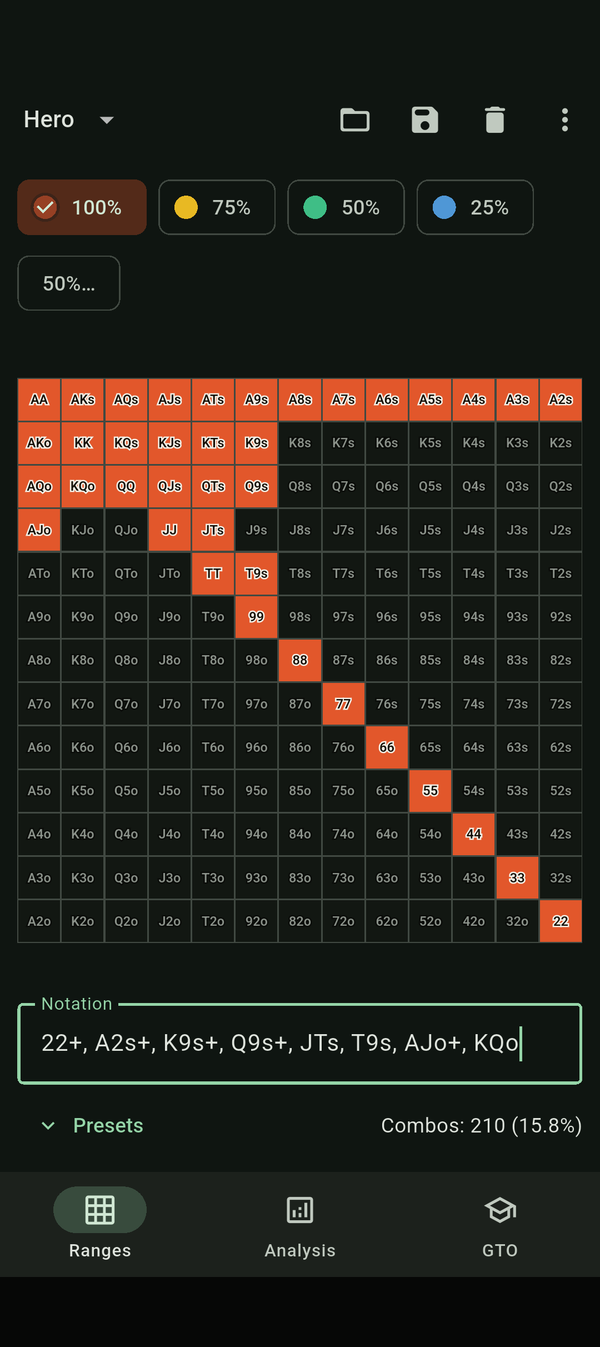
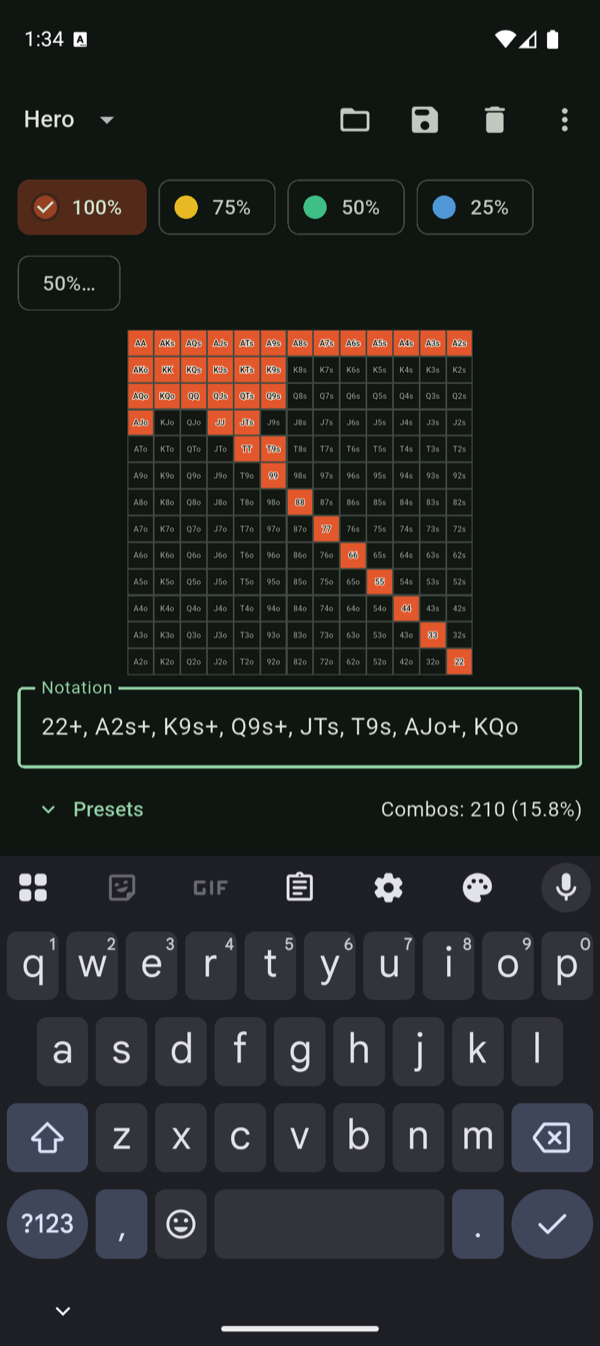
Site: add developer/data-controller name to privacy policy (Huawei 7.1); refresh screenshots, badges, Leak Map + 3-bet copy

diff --git a/i18n.js b/i18n.js
@@ -13,7 +13,7 @@ const T = {
 
     "index.title": "FlopVision — Poker Range & GTO Study Tool",
     "hero.tag": "See the flop the way solvers do. An offline poker range, equity and GTO study tool — private, fast, and made for your pocket.",
-    "badges.soon": "Coming soon to Google Play and AppGallery · iOS later",
+    "badges.soon": "In review on Google Play, the App Store & AppGallery — live soon",
 
     "feat.title": "What FlopVision does",
     "feat.sub": "Everything runs on your device. No account, no internet needed.",
@@ -24,9 +24,11 @@ const T = {
     "feat.equity.h": "Instant equity",
     "feat.equity.p": "Hand vs range and range vs range, computed locally in milliseconds.",
     "feat.gto.h": "GTO viewer",
-    "feat.gto.p": "Precomputed solver solutions with per-combo action frequencies.",
+    "feat.gto.p": "Rake-adjusted solver solutions for single-raised and 3-bet pots, with per-combo action frequencies.",
     "feat.trainer.h": "Trainer",
     "feat.trainer.p": "Quiz yourself on solver-correct flop decisions, hand after hand.",
+    "feat.leak.h": "Leak Map",
+    "feat.leak.p": "Turns your trainer mistakes into weak themes — by spot, street and texture — that you can re-deal and drill.",
     "feat.offline.h": "Private & offline",
     "feat.offline.p": "No tracking, no ads, no servers. Your study stays on your phone.",
 
@@ -39,9 +41,11 @@ const T = {
     "howto.s3.h": "3 · Read equity & breakdown",
     "howto.s3.p": "Instantly see how the range hits the board — made hands, draws, and equity versus another range.",
     "howto.s4.h": "4 · Study GTO",
-    "howto.s4.p": "Open a solved spot and read per-hand action frequencies straight from the solver.",
+    "howto.s4.p": "Pick a spot — single-raised or 3-bet, rake-adjusted — and read per-hand action frequencies straight from the solver.",
     "howto.s5.h": "5 · Train",
     "howto.s5.p": "Quiz yourself hand after hand and get instant, solver-correct feedback.",
+    "howto.s6.h": "6 · Review your leaks",
+    "howto.s6.p": "Open the Leak Map to see which spots, streets and textures you miss most — then re-deal and fix them.",
 
     "is.title": "A study tool — not gambling",
     "is.yes.h": "What it is",
@@ -58,8 +62,10 @@ const T = {
     "shots.sub": "Real screens from the app — Android now, iOS soon.",
     "shots.cap1": "Range editor",
     "shots.cap2": "GTO strategy",
-    "shots.cap3": "Trainer",
-    "shots.cap4": "Equity & breakdown",
+    "shots.cap3": "3-bet strategy",
+    "shots.cap4": "Leak Map",
+    "shots.cap5": "Trainer",
+    "shots.cap6": "Spots",
     "shots.ph": "Screenshot\ncoming soon",
 
     "cta.h": "Study smarter, anywhere",
@@ -73,6 +79,8 @@ const T = {
     "priv.title": "FlopVision — Privacy Policy",
     "priv.h": "Privacy Policy",
     "priv.date": "Effective date: July 3, 2026",
+    "priv.who.h": "Who we are",
+    "priv.who.p": "This app is developed and published by FlopVision. FlopVision is the developer and the data controller responsible for this app and this Privacy Policy. You can reach us at [email redacted].",
     "priv.sum.h": "Summary",
     "priv.sum.p": "FlopVision is an offline poker study tool. The app needs no account, collects no personal data, uses no advertising or analytics SDKs, and transmits none of your ranges, boards or calculations. All computation happens locally on your device.",
     "priv.collect.h": "Data we collect",
@@ -132,7 +140,7 @@ const T = {
 
     "index.title": "FlopVision — покерный тренажёр диапазонов и GTO",
     "hero.tag": "Смотри на флоп глазами солвера. Офлайн-инструмент для диапазонов, эквити и GTO — приватно, быстро и всегда в кармане.",
-    "badges.soon": "Скоро в Google Play и AppGallery · iOS — позже",
+    "badges.soon": "На проверке в Google Play, App Store и AppGallery — скоро в сторах",
 
     "feat.title": "Что умеет FlopVision",
     "feat.sub": "Всё считается на устройстве. Без аккаунта и без интернета.",
@@ -143,9 +151,11 @@ const T = {
     "feat.equity.h": "Мгновенное эквити",
     "feat.equity.p": "Рука против диапазона и диапазон против диапазона — локально, за миллисекунды.",
     "feat.gto.h": "GTO-просмотр",
-    "feat.gto.p": "Прекомпьютнутые решения солвера с частотами действий по каждому комбо.",
+    "feat.gto.p": "Решения солвера с учётом рейка для single-raised и 3-бет потов, с частотами действий по каждому комбо.",
     "feat.trainer.h": "Тренажёр",
     "feat.trainer.p": "Проверяй себя на GTO-верных решениях на флопе, рука за рукой.",
+    "feat.leak.h": "Карта ликов",
+    "feat.leak.p": "Превращает ошибки тренажёра в слабые темы — по споту, улице и текстуре — которые можно пересдать и отработать.",
     "feat.offline.h": "Приватность и офлайн",
     "feat.offline.p": "Без слежки, рекламы и серверов. Твоя учёба остаётся в телефоне.",
 
@@ -158,9 +168,11 @@ const T = {
     "howto.s3.h": "3 · Смотри эквити и разбор",
     "howto.s3.p": "Мгновенно видно, как диапазон попадает в борд — готовые руки, дро и эквити против другого диапазона.",
     "howto.s4.h": "4 · Изучай GTO",
-    "howto.s4.p": "Открой посчитанный спот и читай частоты действий по каждой руке прямо из солвера.",
+    "howto.s4.p": "Выбери спот — single-raised или 3-бет, с учётом рейка — и читай частоты действий по каждой руке прямо из солвера.",
     "howto.s5.h": "5 · Тренируйся",
     "howto.s5.p": "Проверяй себя рука за рукой и получай мгновенный GTO-верный фидбек.",
+    "howto.s6.h": "6 · Разбирай ошибки",
+    "howto.s6.p": "Открой Карту ликов, чтобы увидеть, какие споты, улицы и текстуры даются хуже всего — и пересдай их, чтобы закрепить.",
 
     "is.title": "Инструмент для учёбы, а не азартная игра",
     "is.yes.h": "Что это",
@@ -177,8 +189,10 @@ const T = {
     "shots.sub": "Реальные экраны приложения — Android сейчас, iOS скоро.",
     "shots.cap1": "Редактор диапазонов",
     "shots.cap2": "GTO-стратегия",
-    "shots.cap3": "Тренажёр",
-    "shots.cap4": "Эквити и разбор",
+    "shots.cap3": "3-бет стратегия",
+    "shots.cap4": "Карта ликов",
+    "shots.cap5": "Тренажёр",
+    "shots.cap6": "Споты",
     "shots.ph": "Скриншот\nскоро",
 
     "cta.h": "Учись эффективнее, где угодно",
@@ -192,6 +206,8 @@ const T = {
     "priv.title": "FlopVision — Политика конфиденциальности",
     "priv.h": "Политика конфиденциальности",
     "priv.date": "Дата вступления в силу: 3 июля 2026",
+    "priv.who.h": "Кто мы",
+    "priv.who.p": "Это приложение разрабатывается и издаётся FlopVision. FlopVision является разработчиком и контроллером данных, ответственным за это приложение и за настоящую Политику конфиденциальности. Связаться с нами: [email redacted].",
     "priv.sum.h": "Кратко",
     "priv.sum.p": "FlopVision — офлайн-инструмент для изучения покера. Приложению не нужен аккаунт, оно не собирает персональные данные, не использует рекламные и аналитические SDK и никуда не передаёт ваши диапазоны, борды и расчёты. Всё считается локально на устройстве.",
     "priv.collect.h": "Какие данные мы собираем",
@@ -251,7 +267,7 @@ const T = {
 
     "index.title": "FlopVision — 扑克范围与 GTO 学习工具",
     "hero.tag": "像求解器一样看翻牌。离线的扑克范围、胜率与 GTO 学习工具——私密、快速，装进口袋。",
-    "badges.soon": "即将登陆 Google Play 与 AppGallery · iOS 稍后推出",
+    "badges.soon": "正在 Google Play、App Store 与 AppGallery 审核中 — 即将上线",
 
     "feat.title": "FlopVision 能做什么",
     "feat.sub": "全部在你的设备上运行。无需账号，无需联网。",
@@ -262,9 +278,11 @@ const T = {
     "feat.equity.h": "即时胜率",
     "feat.equity.p": "手牌对范围、范围对范围，本地毫秒级计算。",
     "feat.gto.h": "GTO 查看器",
-    "feat.gto.p": "预先计算的求解器方案，含每个组合的行动频率。",
+    "feat.gto.p": "考虑抽水的求解器方案，涵盖单加注与 3-bet 底池，含每个组合的行动频率。",
     "feat.trainer.h": "训练器",
     "feat.trainer.p": "一手接一手地测试你在翻牌的 GTO 正确决策。",
+    "feat.leak.h": "漏洞图",
+    "feat.leak.p": "把训练器中的失误归类为薄弱主题——按场景、街道与牌面结构——可重新发牌并反复练习。",
     "feat.offline.h": "私密与离线",
     "feat.offline.p": "无追踪、无广告、无服务器。你的学习留在手机里。",
 
@@ -277,9 +295,11 @@ const T = {
     "howto.s3.h": "3 · 查看胜率与分解",
     "howto.s3.p": "即时了解范围如何击中牌面——成手、听牌，以及对另一范围的胜率。",
     "howto.s4.h": "4 · 学习 GTO",
-    "howto.s4.p": "打开已求解的场景，直接读取求解器给出的每手行动频率。",
+    "howto.s4.p": "选择一个场景——单加注或 3-bet、考虑抽水——直接读取求解器给出的每手行动频率。",
     "howto.s5.h": "5 · 训练",
     "howto.s5.p": "一手接一手地测试自己，获得即时的、符合求解器的反馈。",
+    "howto.s6.h": "6 · 复盘漏洞",
+    "howto.s6.p": "打开漏洞图，看看哪些场景、街道和牌面结构最常出错——然后重新发牌并加以修正。",
 
     "is.title": "学习工具，而非赌博",
     "is.yes.h": "它是什么",
@@ -296,8 +316,10 @@ const T = {
     "shots.sub": "应用真实截图——Android 现已推出，iOS 即将到来。",
     "shots.cap1": "范围编辑器",
     "shots.cap2": "GTO 策略",
-    "shots.cap3": "训练器",
-    "shots.cap4": "胜率与分解",
+    "shots.cap3": "3-bet 策略",
+    "shots.cap4": "漏洞图",
+    "shots.cap5": "训练器",
+    "shots.cap6": "场景",
     "shots.ph": "截图\n即将上线",
 
     "cta.h": "随时随地更聪明地学习",
@@ -311,6 +333,8 @@ const T = {
     "priv.title": "FlopVision — 隐私政策",
     "priv.h": "隐私政策",
     "priv.date": "生效日期：2026年7月3日",
+    "priv.who.h": "我们是谁",
+    "priv.who.p": "本应用由 FlopVision 开发和发布。FlopVision 是负责本应用及本隐私政策的开发者和数据控制者。你可以通过 [email redacted] 与我们联系。",
     "priv.sum.h": "摘要",
     "priv.sum.p": "FlopVision 是一款离线扑克学习工具。应用无需账号，不收集个人数据，不使用广告或分析 SDK，也不会传输你的范围、牌面或计算。所有计算都在你的设备本地完成。",
     "priv.collect.h": "我们收集的数据",

diff --git a/index.html b/index.html
@@ -29,12 +29,14 @@
       <h1>FlopVision</h1>
       <p class="tag" data-i18n="hero.tag">See the flop the way solvers do. An offline poker range, equity and GTO study tool — private, fast, and made for your pocket.</p>
       <!-- Official store badges (downloaded from Google/Apple/Huawei).
-           Shown as "coming soon" until public launch; link each badge to
-           its listing and drop the .disabled class once live. -->
+           URLs are the canonical store listings (live once each store
+           approves the app). Each badge keeps the .disabled class — which is
+           opacity:.5 + pointer-events:none — until its store goes live; drop
+           .disabled on a badge the moment that store publishes. -->
       <div class="badges">
-        <span class="badge disabled"><img src="assets/google-play-badge.png?v=2" alt="Get it on Google Play" style="height:44px"></span>
-        <span class="badge disabled"><img src="assets/app-store-badge.svg?v=2" alt="Download on the App Store" style="height:44px"></span>
-        <span class="badge disabled"><img src="assets/appgallery-badge.svg?v=1" alt="Explore it on AppGallery" style="height:44px"></span>
+        <a class="badge disabled" href="https://play.google.com/store/apps/details?id=com.flopvision.app" target="_blank" rel="noopener"><img src="assets/google-play-badge.png?v=2" alt="Get it on Google Play" style="height:44px"></a>
+        <a class="badge disabled" href="https://apps.apple.com/app/id6791618674" target="_blank" rel="noopener"><img src="assets/app-store-badge.svg?v=2" alt="Download on the App Store" style="height:44px"></a>
+        <a class="badge disabled" href="https://appgallery.huawei.com/app/C118268619" target="_blank" rel="noopener"><img src="assets/appgallery-badge.svg?v=1" alt="Explore it on AppGallery" style="height:44px"></a>
       </div>
       <p class="badge-note" data-i18n="badges.soon">Android available soon · iOS coming later</p>
     </section>
@@ -50,6 +52,7 @@
         <div class="feature"><span class="fi">%</span><h3 data-i18n="feat.equity.h">Instant equity</h3><p data-i18n="feat.equity.p">Hand vs range and range vs range, computed locally in milliseconds.</p></div>
         <div class="feature"><span class="fi">♠</span><h3 data-i18n="feat.gto.h">GTO viewer</h3><p data-i18n="feat.gto.p">Precomputed solver solutions with per-combo action frequencies.</p></div>
         <div class="feature"><span class="fi">✓</span><h3 data-i18n="feat.trainer.h">Trainer</h3><p data-i18n="feat.trainer.p">Quiz yourself on solver-correct flop decisions, hand after hand.</p></div>
+        <div class="feature"><span class="fi">◎</span><h3 data-i18n="feat.leak.h">Leak Map</h3><p data-i18n="feat.leak.p">Turns your trainer mistakes into weak themes you can spot and re-drill.</p></div>
         <div class="feature"><span class="fi">⛆</span><h3 data-i18n="feat.offline.h">Private &amp; offline</h3><p data-i18n="feat.offline.p">No tracking, no ads, no servers. Your study stays on your phone.</p></div>
       </div>
     </section>
@@ -63,6 +66,7 @@
         <div class="step"><h3 data-i18n="howto.s3.h">3 · Read equity &amp; breakdown</h3><p data-i18n="howto.s3.p">Instantly see how the range hits the board — made hands, draws, and equity versus another range.</p></div>
         <div class="step"><h3 data-i18n="howto.s4.h">4 · Study GTO</h3><p data-i18n="howto.s4.p">Open a solved spot and read per-hand action frequencies straight from the solver.</p></div>
         <div class="step"><h3 data-i18n="howto.s5.h">5 · Train</h3><p data-i18n="howto.s5.p">Quiz yourself hand after hand and get instant, solver-correct feedback.</p></div>
+        <div class="step"><h3 data-i18n="howto.s6.h">6 · Review your leaks</h3><p data-i18n="howto.s6.p">Open the Leak Map to see which spots, streets and textures you miss most — then re-deal and fix them.</p></div>
       </div>
     </section>
 
@@ -93,10 +97,12 @@
       <h2 class="section-title" data-i18n="shots.title">Inside the app</h2>
       <p class="section-sub" data-i18n="shots.sub">Real screens from the app — Android now, iOS soon.</p>
       <div class="shots">
-        <div class="phone"><div class="screen"><img class="shot shot-dark" src="assets/screens/01_range_dark.png?v=3" alt="Range editor" loading="lazy"><img class="shot shot-light" src="assets/screens/01_range_light.png?v=3" alt="Range editor" loading="lazy"></div><div class="cap" data-i18n="shots.cap1">Range editor</div></div>
-        <div class="phone"><div class="screen"><img class="shot shot-dark" src="assets/screens/03_gto_dark.png?v=3" alt="GTO strategy" loading="lazy"><img class="shot shot-light" src="assets/screens/03_gto_light.png?v=3" alt="GTO strategy" loading="lazy"></div><div class="cap" data-i18n="shots.cap2">GTO strategy</div></div>
-        <div class="phone"><div class="screen"><img class="shot shot-dark" src="assets/screens/04_trainer_dark.png?v=3" alt="Trainer" loading="lazy"><img class="shot shot-light" src="assets/screens/04_trainer_light.png?v=3" alt="Trainer" loading="lazy"></div><div class="cap" data-i18n="shots.cap3">Trainer</div></div>
-        <div class="phone"><div class="screen"><img class="shot shot-dark" src="assets/screens/02_analysis_dark.png?v=3" alt="Equity and breakdown" loading="lazy"><img class="shot shot-light" src="assets/screens/02_analysis_light.png?v=3" alt="Equity and breakdown" loading="lazy"></div><div class="cap" data-i18n="shots.cap4">Equity &amp; breakdown</div></div>
+        <div class="phone"><div class="screen"><img class="shot shot-dark" src="assets/screens/01_range_dark.png?v=4" alt="Range editor" loading="lazy"><img class="shot shot-light" src="assets/screens/01_range_light.png?v=4" alt="Range editor" loading="lazy"></div><div class="cap" data-i18n="shots.cap1">Range editor</div></div>
+        <div class="phone"><div class="screen"><img class="shot shot-dark" src="assets/screens/02_gto_dark.png?v=4" alt="GTO strategy" loading="lazy"><img class="shot shot-light" src="assets/screens/02_gto_light.png?v=4" alt="GTO strategy" loading="lazy"></div><div class="cap" data-i18n="shots.cap2">GTO strategy</div></div>
+        <div class="phone"><div class="screen"><img class="shot shot-dark" src="assets/screens/03_gto3bet_dark.png?v=4" alt="3-bet strategy" loading="lazy"><img class="shot shot-light" src="assets/screens/03_gto3bet_light.png?v=4" alt="3-bet strategy" loading="lazy"></div><div class="cap" data-i18n="shots.cap3">3-bet strategy</div></div>
+        <div class="phone"><div class="screen"><img class="shot shot-dark" src="assets/screens/04_leakmap_dark.png?v=4" alt="Leak Map" loading="lazy"><img class="shot shot-light" src="assets/screens/04_leakmap_light.png?v=4" alt="Leak Map" loading="lazy"></div><div class="cap" data-i18n="shots.cap4">Leak Map</div></div>
+        <div class="phone"><div class="screen"><img class="shot shot-dark" src="assets/screens/05_trainer_dark.png?v=4" alt="Trainer" loading="lazy"><img class="shot shot-light" src="assets/screens/05_trainer_light.png?v=4" alt="Trainer" loading="lazy"></div><div class="cap" data-i18n="shots.cap5">Trainer</div></div>
+        <div class="phone"><div class="screen"><img class="shot shot-dark" src="assets/screens/06_spots_dark.png?v=4" alt="Spot selector" loading="lazy"><img class="shot shot-light" src="assets/screens/06_spots_light.png?v=4" alt="Spot selector" loading="lazy"></div><div class="cap" data-i18n="shots.cap6">Spots</div></div>
       </div>
     </section>
 
@@ -122,6 +128,6 @@
     <span data-i18n="footer.rights">© 2026 FlopVision</span>
   </div>
 </footer>
-<script src="i18n.js?v=4"></script>
+<script src="i18n.js?v=5"></script>
 </body>
 </html>

diff --git a/privacy.html b/privacy.html
@@ -25,6 +25,9 @@
   <h1 data-i18n="priv.h">Privacy Policy</h1>
   <p class="date" data-i18n="priv.date">Effective date: July 3, 2026</p>
 
+  <h2 data-i18n="priv.who.h">Who we are</h2>
+  <p data-i18n="priv.who.p">This app is developed and published by FlopVision. FlopVision is the developer and the data controller responsible for this app and this Privacy Policy. You can reach us at [email redacted].</p>
+
   <h2 data-i18n="priv.sum.h">Summary</h2>
   <p data-i18n="priv.sum.p">FlopVision is an offline poker study tool. The app needs no account, collects no personal data, uses no advertising or analytics SDKs, and transmits none of your ranges, boards or calculations. All computation happens locally on your device.</p>
 
@@ -57,6 +60,6 @@
     <span data-i18n="footer.rights">© 2026 FlopVision</span>
   </div>
 </footer>
-<script src="i18n.js?v=4"></script>
+<script src="i18n.js?v=5"></script>
 </body>
 </html>

diff --git a/support.html b/support.html
@@ -49,6 +49,6 @@
     <span data-i18n="footer.rights">© 2026 FlopVision</span>
   </div>
 </footer>
-<script src="i18n.js?v=4"></script>
+<script src="i18n.js?v=5"></script>
 </body>
 </html>

diff --git a/terms.html b/terms.html
@@ -57,6 +57,6 @@
     <span data-i18n="footer.rights">© 2026 FlopVision</span>
   </div>
 </footer>
-<script src="i18n.js?v=4"></script>
+<script src="i18n.js?v=5"></script>
 </body>
 </html>